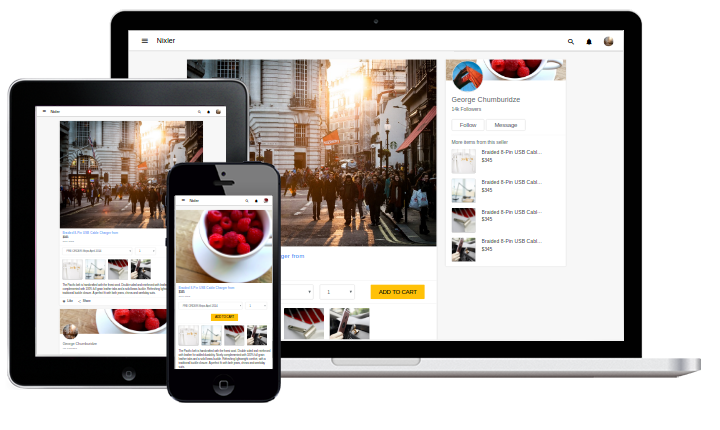
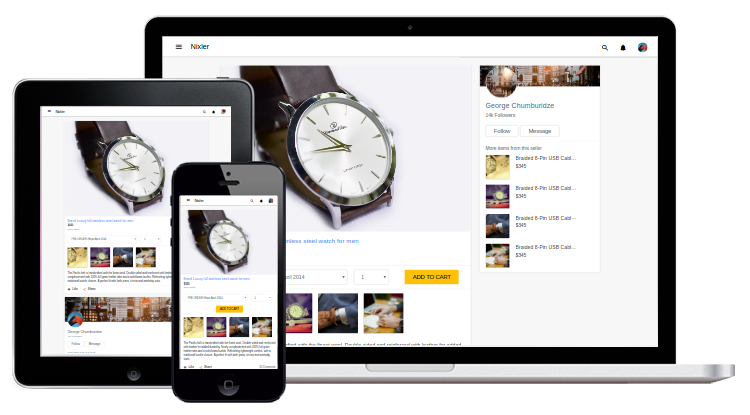
replaced image of landing page

diff --git a/resources/views/landing/page.blade.php b/resources/views/landing/page.blade.php
@@ -64,11 +64,13 @@
                             </div>
                         </div>
                         <div class="col-sm-7">
-                            <img src="/img/landing.png" class="_w100 _z3">
+                            <img src="/img/landing.png" class="_w100">
                         </div>
                     </div>
                 </div>
             </div>
+            <br>
+            <br>
         </div>
 
 
